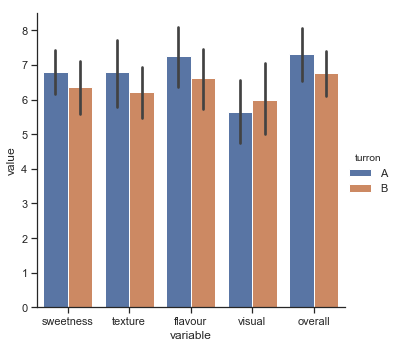
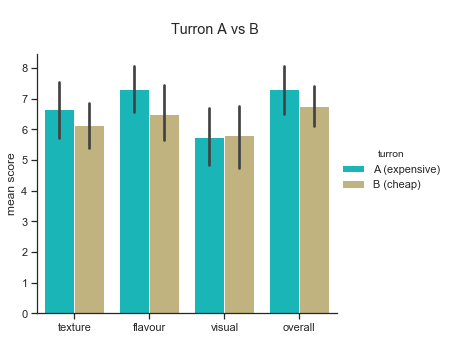
[turron general effect] update fig to new style, with consistent colors and export to png

diff --git a/analysis.py b/analysis.py
@@ -112,12 +112,11 @@ def gender_general_effect(melted):
 
     g = sns.catplot(x="variable", y="value", hue="gender", kind="bar", data=df, palette=PALETTE)
     plt.subplots_adjust(top=0.85)
-    p_values = '\n'.join(p_values)
     g.fig.suptitle(f"\nGender general effect.")
     g.axes[0,0].set_ylabel('mean score')
     g.axes[0,0].xaxis.label.set_visible(False)
     g.axes[0,0].text(4, 1.5, f"p-values:", fontweight='bold')
-    g.axes[0,0].text(4, 0, p_values)
+    g.axes[0,0].text(4, 0, '\n'.join(p_values))
     return g
 
 g = gender_general_effect(melted)
@@ -155,8 +154,15 @@ g.savefig("results/turron_by_gender.png", facecolor=g.fig.get_facecolor())
 #%% [markdown]
 # ## By Turron
 #%%
-sns.catplot(x="variable", y="value", hue="turron", kind="bar", data=melted, palette=PALETTE)
-
+def turron_general(melted):
+    g = sns.catplot(x="variable", y="value", hue="turron", kind="bar", data=melted, palette=PALETTE)
+    plt.subplots_adjust(top=0.85)
+    g.fig.suptitle(f"\nTurron A vs B")
+    g.axes[0,0].set_ylabel('mean score')
+    g.axes[0,0].xaxis.label.set_visible(False)
+    return g
+g = turron_general(melted)
+g.savefig("results/turron_general.png", facecolor=g.fig.get_facecolor())
 #%%
 sns.catplot(x="variable", y="value", hue="first_time_tasting", kind="bar", data=melted)
 sns.catplot(x="variable", y="value", hue="correct_guess", kind="bar", data=melted)
